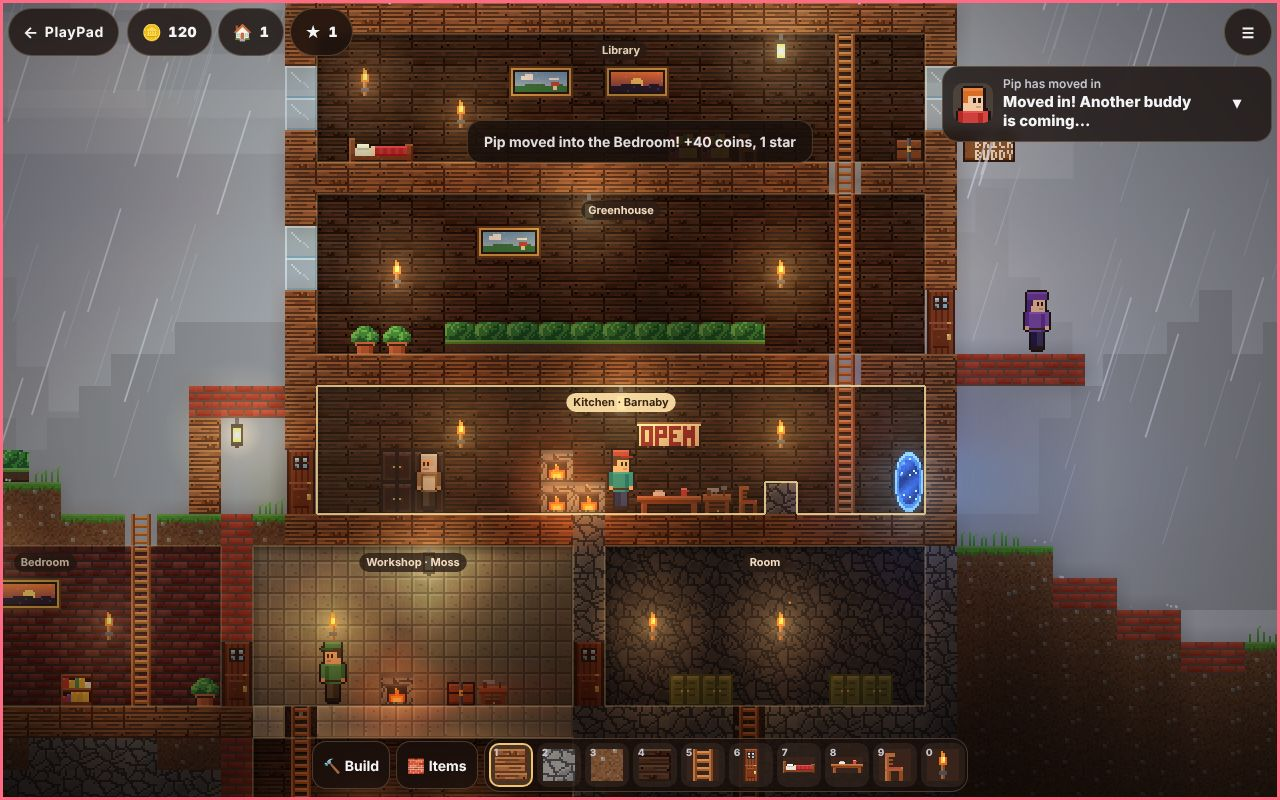
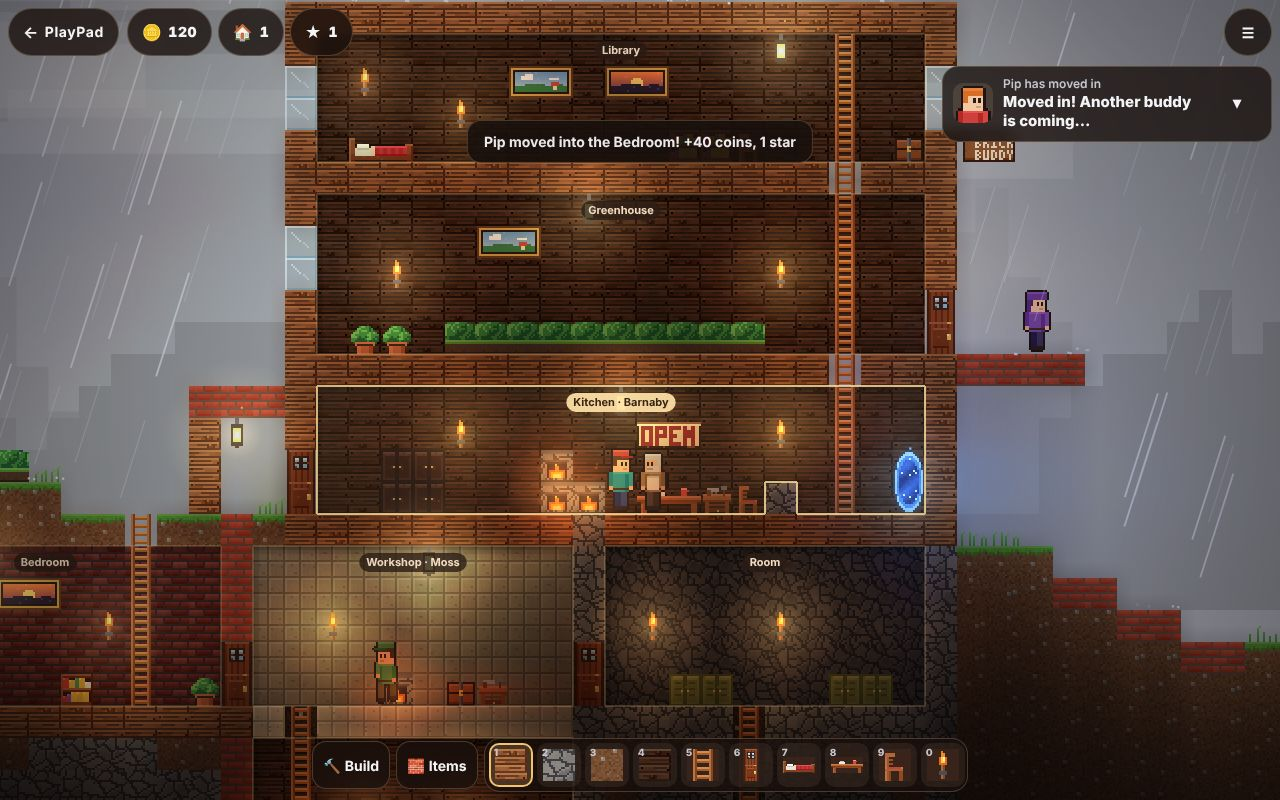
wip: Sparkle Salon product validation (RT-1 open) + Brick Buddies QA fixes in progress
Claude-Session: https://claude.ai/code/session_01ByYswQJAk9dMUckyiCyZxf

diff --git a/games/brick-buddies/index.html b/games/brick-buddies/index.html
@@ -3636,7 +3636,7 @@
             b.y += (dy / dist) * sp;
             if (Math.abs(dx) > 0.02) b.face = dx > 0 ? 1 : -1;
           }
-          openDoorsAround(b);
+          if (b.state === "walk") openDoorsAround(b); // a wanderer never goes through a door, so it never opens one
           if (b.pathI >= b.path.length) {
             b.path = null;
             b.state = "idle";

diff --git a/features/sparkle-salon/product-validation.md b/features/sparkle-salon/product-validation.md
@@ -1,0 +1,187 @@
+# Product Validation: Sparkle Salon
+
+> **Phase 5 output.** Produced _after_ technical QA (`qa-report.md`) is PASS. This is the **product gate**: the feature is not "done" until this is PASS. Built from the Senior PM review (5A), the persona panel (5B), and any round-table sessions (5C). All roles are spawned from `docs/PRODUCT-PANEL.md` — no external skill or tool required.
+
+**Feature:** Sparkle Salon — a kids' princess make-up game
+**Ticket:** PLAY-008
+**Run at:** 2026-11-22 (round 1)
+**Overall product gate:** ☐ PASS ☒ BLOCKED ☐ BLOCKED — ESCALATED — _one narrow, cheap fidelity pass (RT-1); every persona already clears baseline and value_
+
+---
+
+## The gate (how this PASSES)
+
+**Three-tier bar — two tiers gate, one is scored:**
+
+- **Baseline met** — does what the business requirements say **and** each target persona completes their primary goal. **Hard gate.**
+- **Value creation** — personas judge it worth using over the status quo. **Hard gate.**
+- **High satisfaction** — scored, pursued via `docs/IDEAS.md` over time. **Never a release gate.**
+
+**Blocks (→ round table):** PM verdict `NEEDS_REVISION`, OR any persona CRITICAL tied to a baseline/value miss.
+**Logs, doesn't block:** satisfaction feedback + any "critical" not tied to baseline/value → `docs/IDEAS.md` (recurring → `docs/findings-ledger.md` under PRODUCT/UX).
+
+**PASS when ALL hold:** (1) PM = `PASS`; (2) every target persona reports **baseline = met AND value = met**; (3) zero open baseline/value-blocking criticals. Satisfaction is recorded, never required maximal.
+
+**Loop bound (no infinite loop):** the round table iterates **≤ 3 rounds** per feature. If a blocking item survives 3 rounds → stop, log it in `findings-ledger.md`, mark **BLOCKED — ESCALATED**, and surface it to the human.
+
+---
+
+## How this round was run (evidence, honestly labelled)
+
+- **Evaluation mode:** ☒ **live** — one driver served the game (`node tools/serve.mjs 5641`), drove it in headless Chromium with Playwright and looked at the screenshots; ☐ artifacts only. The orchestrator asked for 5A and 5B in one pass, so the personas ran although 5A is `NEEDS_REVISION`; their results stay valid unless the fix in RT-1 changes more than art constants.
+- **Devices / input:** Priya & kid and Maya — 390×844 portrait, `hasTouch`/`isMobile`, **real touch events via CDP** (so the 46 px tool lift is exercised), plus 820×1180, 1180×820 and 844×390 for layout. Sam — 1280×800, **keyboard only** (the mouse was never used). Maya also started from the hub (`/`) with two thumb swipes and a tap.
+- **Fidelity:** the owner's reference (`makeup-ref.webp`, 166×296, third-party, not in the repo) next to the game's title screen and a glam-look play frame at 390×844, plus crops of the tray and of the eyes/props, and a pixel measurement of the hair colour.
+- **Sound was NOT heard** (headless). The sound verdict is **code-reviewed only** (`index.html` → `Sfx`, lines ≈ 2328–2676, and the cue call sites).
+- **Caveats:** synthetic personas, scripted strokes (CDP dispatch is slower than a finger, so I judge feel from frame strips, not from speed), no real child. Screenshots live in the session scratchpad (`…/scratchpad/pv-ss/`), not in the repo; ids are quoted below.
+
+---
+
+## 5A — Senior PM review (business requirements)
+
+| Round | Verdict          | Blocking issues                                                | Notes                                                                                                                                                     |
+| ----- | ---------------- | -------------------------------------------------------------- | --------------------------------------------------------------------------------------------------------------------------------------------------------- |
+| 1     | `NEEDS_REVISION` | 1 HIGH (hair palette) + 2 MEDIUM folded into the same art pass | Business outcome, fun mechanics and sound are met. The owner's "design fidelity — I do not accept less" is met for the UI, short of it for the character. |
+
+**The owner's three asks — verdict on each:**
+
+| Ask                        | Verdict                      | One-line reason                                                                                                                                                                                                                                                         |
+| -------------------------- | ---------------------------- | ----------------------------------------------------------------------------------------------------------------------------------------------------------------------------------------------------------------------------------------------------------------------- |
+| 1. Fidelity to the image   | **Close, not yet "true"**    | Layout, tray, HUD and the princess's composition are faithful (≈ 8–9/10). The character's hair colour, jawline and the wand/brush props are visibly a reinterpretation (≈ 6.5–7/10). See the scorecard below.                                                           |
+| 2. Fun, playable mechanics | **Met**                      | Rub-to-apply gives continuous feedback (tool follows the finger, paint builds up with a % ring, auto-completes at 80% with sparkles, chime, giggle and coins). Requests give a reason to choose colours; locked colours give a reason to come back. Never a fail state. |
+| 3. Sound design            | **Met (code-reviewed only)** | A cohesive all-synthesised kit: stroke-speed-driven swish per tool, sponge squeak, lens pop, chimes, coin, shutter, star notes, fanfare, a music-box loop, persisted mute, suspended when the tab is hidden. Risks are mix/loop details (below), none blocking.         |
+
+**Business success metrics (requirements.md) — verified live:**
+
+1. A first-time player completes all 8 steps to the photo without a dead end — **yes**: touch run (4/4 matches, 3 stars, 225 coins) and keyboard-only run (8/8 steps, 3 stars).
+2. Every run earns ≥ 1 star and coins; matching earns more — **yes** (540 points / 225 coins matched; skip-everything path covered by `probe.mjs` AC-12).
+3. Coins and unlocks persist — **yes**: bought "Mint" for 50 of 90 coins, reloaded, coins 40 and `unlocked: ["shadow:mint"]` restored.
+4. The hub shows a "Best" badge from `bestOverall` — **yes**: card read `Best 280` after one run.
+
+**Issues (latest round):**
+
+- **[HIGH] Hair palette is warmer and heavier than the reference** → violates _"the visuals … match the owner's reference"_ (requirements.md → Value) and the owner's fidelity ask. The hair is the biggest colour mass on screen. Measured on the same "hair-yellow" pixel class: reference mean hue 43.7°, brightness 0.97, only ≈ 2% of hair pixels darkened; the game's title screen 39.3°, 0.93, ≈ 11% darkened (about 5× more shaded hair), so it reads amber/mustard where the reference reads lemon. The highlight colour already matches (255,221,104 in both); the darks do not. → Lift the back-hair gradient `#gBackBase` (`#d58415 / #eb9c24 / #f8b63c`) toward `#f0a21c / #f8bc34 / #ffd45a`, thin the dark strands, keep the orange outline; target mean brightness ≥ 0.96 and ≤ 4% darkened pixels by the same measure.
+- **[MEDIUM] Jawline and neck shadow** → fidelity. The jaw is a V-shaped point where the reference has a softer, rounder chin, and the neck shadow is a brown-pink band that looks muddy at the 1.75× lipstick zoom (shots `p5-step6-lips-start`, `p6-tiara-on`). → Round the chin path; lower the neck-shadow opacity and push it pinker.
+- **[MEDIUM] Props are only partly on screen on a phone** → fidelity + clarity. The reference shows the mascara wand's red heart tube; in the game the tube exists in the art (`twTube`) but the wand's handle runs off the right edge, so the tube is never seen, and at rest the wand is mostly clipped (`p5-step4-mascara-start`). In the lipstick step no tool is visible at rest at all. The blush brush head is a cloud shape rather than the reference's round fluffy puff. → Re-pivot/shorten the wand so the tube lands on screen, keep the resting tool inside the viewport in every paint step, round the brush head.
+- **[LOW] Hub card art** is a lipstick emoji on pink like its neighbours; it is clear to an adult but not a pull for a child, and the "Kids" tag in `games.js` is not shown on the card. → Parked to `IDEAS.md`.
+
+**Evidence anchor:** _"the owner's reference is the chosen direction"_ / _"the visuals are clear, colourful and friendly (they match the owner's reference)"_ — `requirements.md`, Design routing and Value bar; owner: _"design fidelity, I do not accept less"_.
+
+**One-line summary:** the game is fun, safe and complete and the screen layout is a faithful match, but the princess herself is a shade too orange and a little too pointy-chinned next to the reference, and that is the one thing the owner said they would not compromise on.
+
+### Fidelity scorecard (UX Designer, side by side at 390×844)
+
+| Element                                                                                                                                                 | Match  | Notes                                                                                                                                                                                                                                      |
+| ------------------------------------------------------------------------------------------------------------------------------------------------------- | ------ | ------------------------------------------------------------------------------------------------------------------------------------------------------------------------------------------------------------------------------------------ |
+| Tray: pink band, hot-pink rim, white discs with thick two-tone ring + black outline, big selected disc with purple halo, lock badge, mini-illustrations | 9/10   | Practically the same recipe (crop `fidelity-tray-and-eyes`). Heart badge for the client's pick is a good extension. Ours clips the 5th disc at 390 px, which doubles as a swipe cue (tray scrolled fine, no accidental taps).              |
+| HUD: round exit button top-left, coin pill with gold heart coin top-right                                                                               | 8/10   | Exit is magenta where the reference is red; coin pill matches.                                                                                                                                                                             |
+| Princess composition: bust, pearl tiara, choker, butterfly pendant, lilac dress with white fur                                                          | 8/10   | All present and recognisable; the dress is smoother than the reference's glitter texture.                                                                                                                                                  |
+| Eyes, lips, blush                                                                                                                                       | 8/10   | Large glossy violet irises with several highlights, glossy two-tone lips, round blush. Upper lash line is heavier and the lashes are plain sticks; the reference's irises are a pink-blue-violet gradient.                                 |
+| Hair                                                                                                                                                    | 6/10   | See HIGH issue. Shape (ponytail tuft, swept bang, orange outline) is right; the colour is not.                                                                                                                                             |
+| Face shape / neck                                                                                                                                       | 6.5/10 | See MEDIUM issue.                                                                                                                                                                                                                          |
+| Props (brush, wand, lipstick, sponge)                                                                                                                   | 7/10   | Gold ferrule + heart on the brush is a good echo; wand tube off-screen, brush head shape differs; the sponge reads as a pink disc.                                                                                                         |
+| Backdrop                                                                                                                                                | 7/10   | Blurred lilac/pink vanity room with bulbs and a pink table; ours uses a bulb arch where the reference has a bulb pillar on the left. A deliberate, acceptable departure.                                                                   |
+| Departures needed to be a game (step name + 8 dots, hint bubble, Redo / ring / Skip-Next row, request card, per-step camera zoom)                       | n/a    | Well integrated and in the same visual language. The per-step zoom (1.2–1.75×) makes the face much larger than the reference's fixed bust, which helps small fingers but means the player rarely sees the "reference" framing during play. |
+
+### The core rub-to-apply loop (UX Designer: fun and juice)
+
+What happens when a child rubs, from frame strips (`p10-blush-filmstrip`, `p8-giggle-sheet`, `p21-giggle-glam`) and the code:
+
+- The tool is a drawn object that follows the finger and is lifted 46 px above a fingertip so the work stays visible. The % ring chases the tool tip and doubles as the progress meter.
+- Paint builds up under the tool (soft blush discs, lid shadow, lash by lash for mascara, smudges fading for cleanse). At ≈ 80% the step finishes by itself: sparkle burst, chime, coin clink, a speech-bubble cheer, and the princess shuts her eyes and giggles (closed lids take the shadow colour). The Next button then glows. This is a good, tactile reward cycle with no way to lose.
+- Single taps dab, so a child who cannot scrub still progresses. Tap-to-choose steps (lenses, accessories, stickers) swap the art immediately, and the camera pans between the tiara, earring and necklace tabs.
+- **Where it is weaker:** (a) the three tap steps are less tactile than the rub steps; (b) the 80% auto-complete is kind but takes the finishing flourish away from the child; (c) the resting tool is clipped or missing in two steps; (d) one princess, one hairstyle: the novelty is in the colours, not in the character, so replay value rests on unlocks.
+
+### Sound design (code-reviewed only, not heard)
+
+- **Strengths:** everything is synthesised after a user gesture, with a master → compressor chain, a separate music bus (0.5) and effects bus (0.9) and a feedback echo that gives chimes their tail. The swish is band-passed noise whose level and filter follow stroke speed and differ per tool (lipstick 1 kHz, sponge 1.5 kHz, brush 2.3 kHz, wand 3.2 kHz), so rubbing _sounds_ responsive; the sponge adds a rate-limited squeak. The music is an 8-bar C-major music-box loop with humanised velocity; stars light on G5, B5, E6; the fanfare and shutter pair give the reveal weight. Mute persists and audio is suspended while the tab is hidden.
+- **Risks (none blocking):** (1) a step completion fires chime, coin and giggle in the same ~300 ms, in unrelated pitches (the coin's square B6 sits a semitone under the chime's C7), so it may sound busy — stagger the coin ~250 ms and tune it to the chime's chord; (2) the "giggle" is three rising blips, cute but not a giggle; (3) the music loop is ≈ 19 s with no variation (a 2-minute makeover hears it six times) and its bass notes (87–130 Hz at gain 0.07 × 0.5) are inaudible on phone speakers; (4) music peaks sit roughly 8 dB under the effects, which is right for a background bed but should be confirmed by ear on a phone speaker; (5) iOS's silent switch will mute Web Audio, which the game cannot influence.
+
+---
+
+## 5B — Persona panel (usability & value)
+
+**Evaluation mode:** ☐ artifacts ☒ live (one driver captured the running app) ☐ **Unverified — no live run**
+
+| Persona                                | Baseline | Value                                     | Satisfaction | Critical?                                  | Key feedback                                                                                                                                                                                                                                                                                                                                                                                             |
+| -------------------------------------- | -------- | ----------------------------------------- | ------------ | ------------------------------------------ | -------------------------------------------------------------------------------------------------------------------------------------------------------------------------------------------------------------------------------------------------------------------------------------------------------------------------------------------------------------------------------------------------------- |
+| **Priya & kid** — Sofa Co-op (touch)   | **met**  | **met**                                   | **4 / 5**    | n (one MEDIUM, not tied to baseline/value) | The child can finish a full makeover with taps and finger strokes: cleanse reached 100% on the first naive pass, and the visuals are bright, clear and friendly. Friction: nothing shows a non-reader _how_ to start rubbing, and the lifted tool surprises a first touch (below).                                                                                                                       |
+| **Maya** — Commuter Casual (phone)     | **met**  | **met** (modest — it fills a short break) | **3 / 5**    | n                                          | Hub to first stroke in ≈ 5 s with two thumb swipes and three taps, no sign-in, no load wait (page load ≈ 110 ms). Every control she needs is in the lower half of the screen. A makeover is about two minutes. No challenge or skill ceiling, so she returns only if she likes dress-up.                                                                                                                 |
+| **Sam** — Keyboard / AT user (desktop) | **met**  | **met**                                   | **3 / 5**    | n                                          | Complete keyboard path with nothing mouse-only: Tab to Start, Enter, Enter, arrow keys + held Space on the face, Enter in the tray, Tab to Next. 8/8 steps, 3 stars. Focus is visible (3 px indigo outline, 3 px offset), labels are sensible, and one live region announces steps, selections, completions and the result. It is laborious (below) and the face is not a screen-reader-friendly target. |
+
+### Priya & kid — what they experienced (390×844, touch)
+
+- **Start:** the title screen (`p1-title-390`) is bright and clear; "Start makeover" is big and inside the viewport. The client card (`p1-request-390`) shows four colour swatches a child can match by sight, and the tray marks the client's pick with a heart badge, so matching works without reading.
+- **Eight steps completed** with real touch strokes and taps: cleanse (`p3-cleanse-after-naive`), eye shadow (`p4-shadow-done`), lenses (`p5-step3-lens-done`), mascara (`p5-step4-mascara-mid`), blush (`p5-step5-blush-mid`), lipstick (`p5-step6-lips-after`), accessories (`p6-necklace-on`), stickers (`p7-step8-stickers-done`), then the photo reveal with confetti and three stars lighting one by one (`p7-reveal-500-reveal`) and the results card (`p7-reveal-5000-results`): 4/4 matched, 3 stars, +225 coins.
+- **The lift is the one thing a first-timer could trip on.** A child who puts a finger _on_ the target gets, after four scrub rows: eye shadow 77%, mascara 55%, blush 24%, lips **0%** (the tip lands 46 px above the finger, on the nose). A child who aims the visible tool tip gets 100 / 75 / 100 / 100%. Because the tool is drawn and moves with the finger, most children will adjust within seconds, so I do **not** rate it baseline-blocking, but nothing teaches it and the hint text does not mention it. The lips target is only ≈ 35 × 81 px even at 1.75× zoom.
+- **Reading:** the request card and the hint bubbles are text, and the bubble hides after the first stroke. A 7-year-old can read them, a 4–5-year-old would rely on the pictures: the dirty "before" face, the illustrated tray discs and the glowing Next button are good, but there is no idle nudge (pulse on the target, ghost finger) to show what to do.
+- **Safety and calm:** no external link but the hub, no ads, no network; leaving shows a clear sheet ("Your coins are safe, but this makeover will be lost") with big Keep playing / Leave buttons; unlocking shows "Unlock Mint? It costs 50 coins. You have 90." and never spends silently.
+- **Would they play twice?** Probably 2–3 rounds: a first run earns enough coins (225) to buy three or four colours, which is a real reason for "one more", but the princess never changes.
+- **Larger screens:** on an 820×1180 tablet (`p18-tablet-portrait-blush`) the game fills the screen cleanly; in landscape (`p18-tablet-landscape-blush`) it is a centred portrait column with flat pink gutters, and the 844×390 phone-landscape layout moves the tray to a right-hand column. No horizontal scroll, Next and the tray on screen in all three.
+
+### Maya — what she experienced (390×844, one thumb)
+
+- Card position: Sparkle Salon is the 5th of 7 cards on the phone hub, so she scrolls about 1.5 screens; the "New" badge helps. After a play the card shows the best score.
+- Control reach (y of 844): Redo 689, Skip/Next 688, tray 787 — all in thumb range; leave, hint and sound sit in the top corners where they are out of the way. Touch-action is `none` on the stage and overscroll is off, so a stroke never scrolls or pulls to refresh; a two-finger touch causes no errors.
+- A full makeover with scripted strokes took about a minute for seven steps, so ≈ 2 minutes for a real player — a good commute length. Zero console errors throughout.
+
+### Sam — what he experienced (1280×800, keyboard)
+
+- Title: Tab order is Back to PlayPad → Start makeover → Sound; Enter starts, Enter on "Let's glam!" hands focus to the face, whose label says "The princess. Rub the sponge over the smudges! Use the arrow keys to move the tool and hold Space or Enter to apply it."
+- **Cost of a full makeover by keyboard: ≈ 247 arrow presses and 61 Tab presses**, with Shift for 22-unit jumps (without Shift a blind sweep reached only 42% of the cleanse after 210 presses and stalled). Skipping every step takes 14 key presses from the title for 1 star and 15 coins (measured). That is workable for a sighted keyboard user and tiring for anyone else.
+- Announcements (`#sr`): "Step 1 of 8: Cleanse…", "Sky blue selected", "Cleanse complete! Plus 10 coins.", and "3 out of 3 stars. +225 coins. New best score: 540!". There are no progress announcements while painting, and the smudges' positions are not described, so a screen-reader-only user cannot know where to rub — inherent to a drawing game; Skip keeps it completable.
+- Focus: the selected tray disc is a large purple halo, keyboard focus a separate 3 px indigo outline (`p20-focus-nonselected`, `p20-focus-next`), both visible. Results focus lands on "Play again".
+
+**Non-blocking feedback → `docs/IDEAS.md`:**
+
+- Hair/jaw/prop art pass beyond RT-1: glitter on the dress, pink-blue-violet iris gradient, finer lashes, a red exit button and a bulb pillar to match the reference more closely.
+- Show-me affordances for non-readers: a pulsing ring on the target region after ~4 s idle, a dotted line from fingertip to tool tip on first touch, icon-only hints.
+- Hub card: use the princess portrait as the card art and surface the "Kids" tag.
+- Keyboard speed: an "apply step" shortcut and 25/50/75% progress announcements.
+- Sound: stagger and re-tune the completion cues; add loop variation (a second 8-bar section) and a mid-range doubling of the bass line; consider a short "Mmm!" voiced giggle from filtered formant tones.
+- More tactile tap steps: drag stickers into place, slide the lens in; a "wipe the mirror" finish flourish.
+- Replay: a second princess or hairstyle, a gallery of past photos (stored `looks` already keeps six), a daily client.
+- Desktop: continue the bokeh backdrop into the gutters instead of flat gradients.
+
+---
+
+## 5C — Round-table sessions
+
+### RT-1 — Fidelity pass: hair palette, jaw/neck, props on screen
+
+- **Raised by:** Senior PM (owner's ask: "design fidelity, I do not accept less"); UX Designer (side-by-side); Priya & kid agreed the princess and props should look like the picture she would be shown. No persona reported a baseline or value miss.
+- **Problem:** the character — the visual centre — is the place where the game visibly departs from the reference: amber/heavily shaded hair (≈ 11% darkened pixels vs ≈ 2%), a pointed jaw and muddy neck shadow, and a mascara wand whose heart tube is off-screen; two steps show no resting tool.
+- **Plan (art-only; no logic, no new files, no network):**
+  1. Hair: lighten `#gBackBase` stops to ≈ `#f0a21c / #f8bc34 / #ffd45a` and thin the dark strand overlays; leave the already-matching `gbangA`/`gbangB` highlights. Acceptance: same pixel measure on the 390×844 title screenshot gives mean brightness ≥ 0.96 and ≤ 4% darkened hair pixels.
+  2. Face: round the chin path; soften the neck shadow (lower opacity, pinker). Acceptance: UX sign-off against `fidelity-side-by-side` at title zoom and at the 1.75× lipstick zoom.
+  3. Props: shorten or re-pivot the wand so the heart tube is on screen at 390 px; make the resting position of every tool land inside the viewport (mascara and lipstick steps); round the brush head. Acceptance: tool visible at rest in all five tool steps at 390×844 and 360×640.
+  4. Re-run `features/sparkle-salon/probe.mjs` (AC-15/16/20 are the ones layout changes can touch) and `npm run smoke`.
+- **Implemented:** _not yet — back to Phase 3._ Estimated effort: small (colour stops and a few paths).
+- **Re-validation:** PM + UX re-check the side-by-side (title, blush at 1.2×, lipstick at 1.75×) and Priya re-checks the props; Maya and Sam need no re-run unless layout changes.
+- **Status:** OPEN (round 1 of 3)
+
+---
+
+## Human summary
+
+Sparkle Salon meets the business goal: a child can finish a full makeover on a phone with finger strokes and taps, a keyboard-only player can finish it too, coins and unlocks persist, the hub shows the best score, and the rub-and-reward loop and the (code-reviewed) sound design are strong. All three target personas clear the baseline and value bars (Priya & kid 4/5, Maya 3/5, Sam 3/5 satisfaction), so nothing blocks them.
+
+What blocks the gate is the owner's own bar: the screen layout, tray and HUD are a faithful match for the reference, but the princess herself is a shade too orange and heavily shaded, her chin is more pointed and the mascara wand's heart tube is off-screen. These are cheap art fixes (RT-1); once done and re-checked side by side, this should go to PASS. Everything else found is logged for the backlog, not for this gate.
+
+---
+
+### Loop control
+
+If the gate is BLOCKED → fix (Phase 3) and re-run the blocked stage, adding a new round above. On PASS → proceed to **Phase 6 (CAPTURE)**: log product/UX learnings, move non-blocking feedback to `docs/IDEAS.md`, update `docs/findings-ledger.md`.
+
+---
+
+## Post-launch UAT (after the feature is live)
+
+> **PM-led.** Same gate and round-table mechanics, but against real usage. Trigger when the feature ships. Skip until then.
+
+**UAT run at:** \_\_\_\_ **Led by:** Senior PM
+
+- **What was checked with users / real usage:** _..._
+- **Feedback gathered:** _..._
+- **Round table (PM + UX + affected persona[s]):** _plan → implement (Phase 3) → re-validate; same ≤ 3-round loop._
+- **Outcome:** ☐ confirmed in the wild ☐ changes looped back through Phase 3
